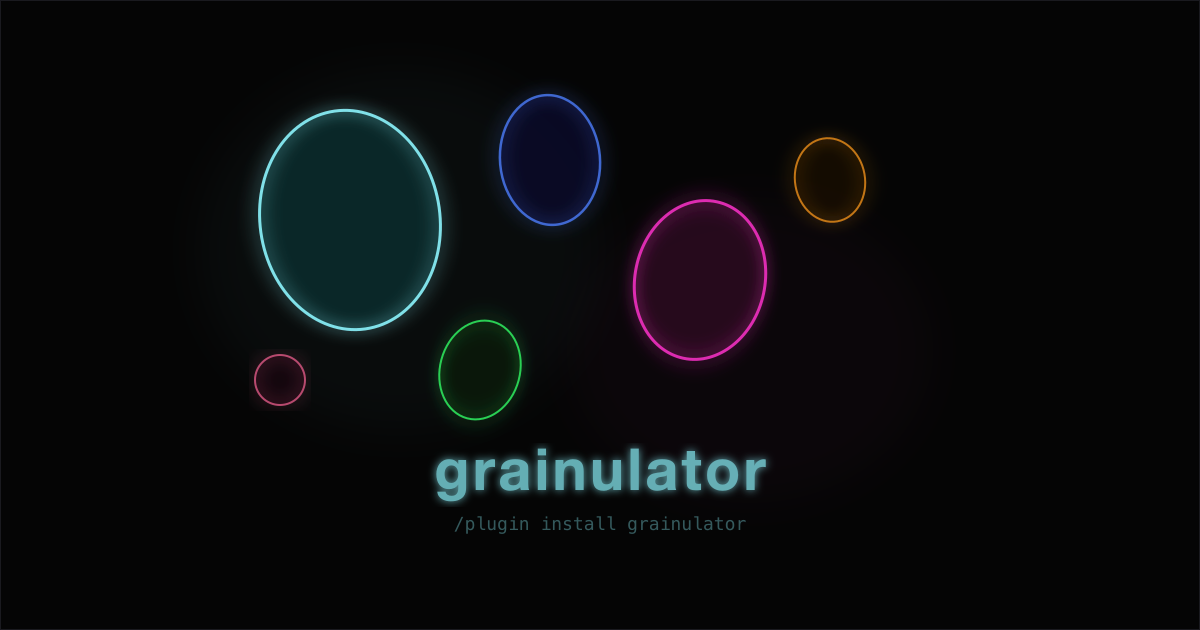
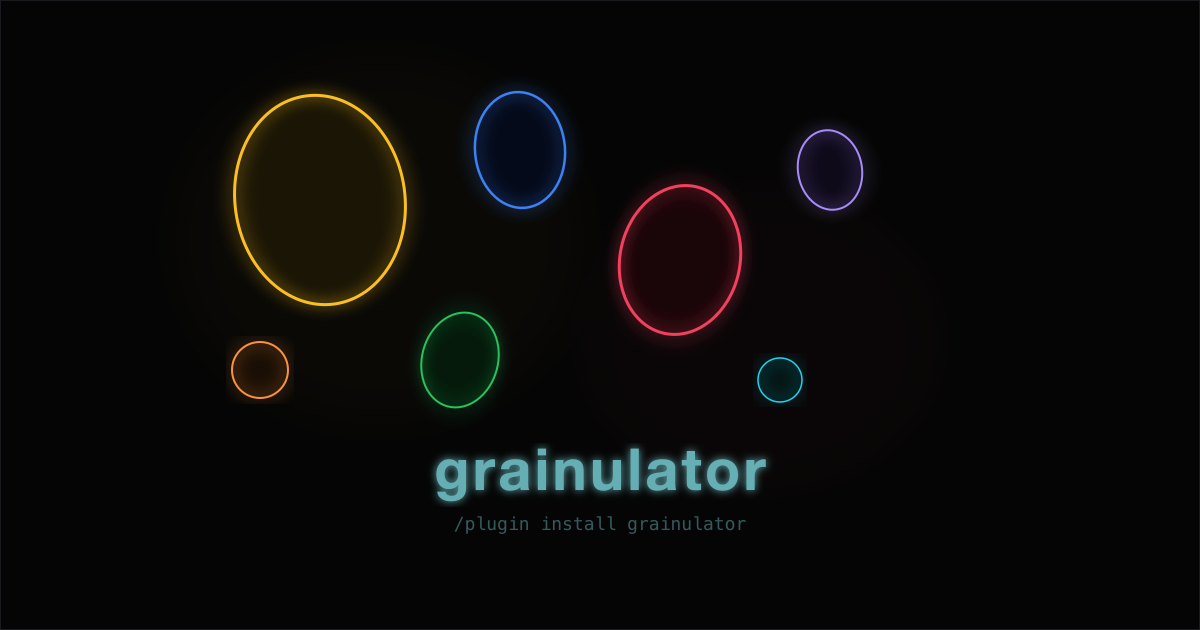
feat: grainulation product colors — wheat/barn/farmer/mill/silo/harvest/orchard/grain
Shader, favicon, and OG image all use the 8 real product accent colors:
  wheat #fbbf24, barn #f43f5e, farmer #22c55e, mill #3b82f6,
  silo #a78bfa, harvest #fb923c, orchard #22d3ee, grainulation #9ca3af

Each blob on the landing page represents a product in the ecosystem.

diff --git a/site/index.html b/site/index.html
@@ -271,15 +271,17 @@ float g_nearestBlob = 0.0;
 
 // per-blob neon color — each blob gets its own neon hue
 vec3 getNeonColor(float idx) {
-  float h = fract(idx * 0.618 + seed * 3.7); // golden ratio spread
-  // neon palette: cyan, magenta, blue, green, pink, orange
+  // grainulation ecosystem product colors
+  float h = fract(idx * 0.618 + seed * 3.7);
   vec3 c;
-  if (h < 0.16) c = vec3(0.55, 0.96, 1.0);       // neon cyan #8df6ff
-  else if (h < 0.33) c = vec3(1.0, 0.2, 0.8);     // neon magenta
-  else if (h < 0.5) c = vec3(0.3, 0.5, 1.0);      // neon blue
-  else if (h < 0.66) c = vec3(0.2, 1.0, 0.4);     // neon green
-  else if (h < 0.83) c = vec3(1.0, 0.4, 0.6);     // neon pink
-  else c = vec3(1.0, 0.6, 0.1);                    // neon orange
+  if (h < 0.125) c = vec3(0.984, 0.749, 0.141);      // wheat   #fbbf24
+  else if (h < 0.25) c = vec3(0.957, 0.247, 0.369);   // barn    #f43f5e
+  else if (h < 0.375) c = vec3(0.133, 0.773, 0.369);  // farmer  #22c55e
+  else if (h < 0.5) c = vec3(0.231, 0.510, 0.965);    // mill    #3b82f6
+  else if (h < 0.625) c = vec3(0.655, 0.545, 0.980);  // silo    #a78bfa
+  else if (h < 0.75) c = vec3(0.984, 0.573, 0.235);   // harvest #fb923c
+  else if (h < 0.875) c = vec3(0.133, 0.827, 0.933);  // orchard #22d3ee
+  else c = vec3(0.612, 0.639, 0.686);                  // grain   #9ca3af
   return c;
 }
 
